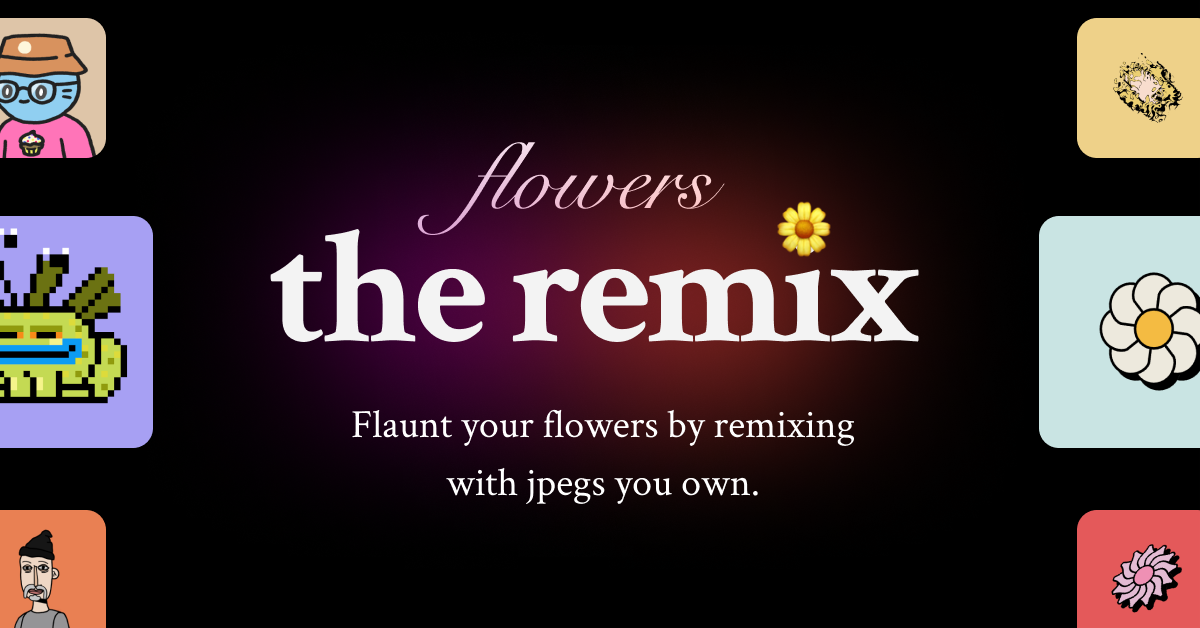
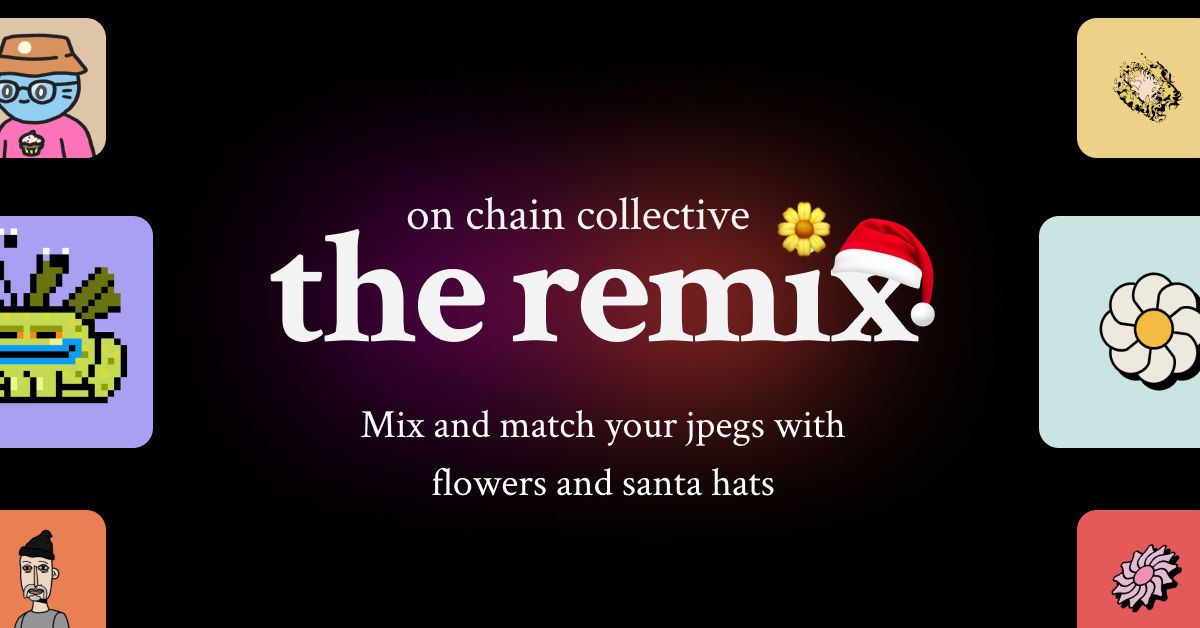
added santa hats

diff --git a/pages/index.js b/pages/index.js
@@ -188,10 +188,25 @@ function Home() {
   // Method to show only flower nfts
   function refreshNfts() {
     console.log('refreshing nfts');
+    setLoading(true);
     setBgImage(false);
     setJpegRenders(null);
     // setNftImages([], false);
-    setNftImages(jpegFlwrs, false);
+    let santaHat = [
+      {image_url: 'https://res.cloudinary.com/ds24tivvl/image/upload/v1640094508/Santa-hat/santahat1.png'}, 
+      {image_url: 'https://res.cloudinary.com/ds24tivvl/image/upload/v1640094508/Santa-hat/santahat2.png'}, 
+      {image_url: 'https://res.cloudinary.com/ds24tivvl/image/upload/v1640094508/Santa-hat/santahat3.png'}, 
+      {image_url: 'https://res.cloudinary.com/ds24tivvl/image/upload/v1640094508/Santa-hat/santahat4.png'}, 
+      {image_url: 'https://res.cloudinary.com/ds24tivvl/image/upload/v1640094508/Santa-hat/santahat5.png'}, 
+      {image_url: 'https://res.cloudinary.com/ds24tivvl/image/upload/v1640089027/Santa-hat/santahat6.png'}, 
+      {image_url: 'https://res.cloudinary.com/ds24tivvl/image/upload/v1640089027/Santa-hat/santahat7.png'}, 
+      {image_url: 'https://res.cloudinary.com/ds24tivvl/image/upload/v1640089027/Santa-hat/santahat8.png'}, 
+      // {image_url: 'https://res.cloudinary.com/ds24tivvl/image/upload/v1640089027/Santa-hat/santahat9.svg'}, 
+      {image_url: 'https://res.cloudinary.com/ds24tivvl/image/upload/v1640089027/Santa-hat/santahat10.png'}];
+    let flwrsWithSantaHat = santaHat.concat(jpegFlwrs);
+    console.log(flwrsWithSantaHat);
+    setNftImages(flwrsWithSantaHat, false);
+    setLoading(false);
   }
 
   // Method to reset to first step
@@ -280,6 +295,14 @@ function Home() {
               canvas.add(img3);
               canvas.renderAll();
             },{ crossOrigin: 'Anonymous' });
+          } else {
+            let url = URL.createObjectURL(file);
+            fabric.Image.fromURL(url, function(img) {
+              let img3 = img.set({left: 100,top: 100})
+              img3.scaleToWidth(300);
+              canvas.add(img3);
+              canvas.renderAll();
+            }, { crossOrigin: 'Anonymous' });
           }
         };
       }
@@ -325,7 +348,7 @@ function Home() {
                 }}
             /> */}
         </Head>
-      
+        
         <div className="flex items-center flex-col max-w-5xl mx-auto text-center">
           <header className="text-5xl md:text-6xl font-snell flex items-center justify-center mt-6">
             <img src="/remix/logo.png" className="w-5/6 sm:w-2/6"/>
@@ -334,7 +357,7 @@ function Home() {
            {!active &&
               <div className="flex flex-col max-w-xl mx-auto">
                 <p className="text-center max-w-xl mx-auto text-2xl text-left  md:p-4 p-6">
-                  Flaunt your flowers by remixing with jpegs you own. Connect your wallet to get started
+                  Make merry by remixing with jpegs you own. <br/> Connect your wallet to get started
                 </p>
                 <div className="flex align-center flex-col max-w-4xl mx-auto text-xl text-left mt-6 pb-4">
                     <ConnectButtons setWorking={setWorking} activate={activate} />
@@ -357,7 +380,7 @@ function Home() {
                     <div className={bgImage ? "cursor-not-allowed back-button" : "ghost-button back-button"}
                       onClick={() => goToBaseStep()}>{!bgImage  && <span><span className="arrow-left"/> back</span>}</div>
                     <p className="text-center max-w-xl mx-auto text-md sm:text-2xl text-left  md:p-4 p-6">
-                      {bgImage ? "Choose your base jpeg" : "Now add all the flowers you want to your pfp"}
+                      {bgImage ? "Choose your base jpeg" : "Now add flowers you own or santa hats to your pfp"}
                     </p>
                     {bgImage ?
                       <button className={bgImageSelected ? "button" : "ghost-button"}
@@ -417,6 +440,10 @@ function Home() {
         }
         <div className="flex align-center flex-col max-w-2xl mx-auto text-center mt-8 mb-8 p-4">
           <div className="text-md ">
+            <a href="https://occ.xyz/" target="_blank" className="hover:underline">
+              occ
+            </a>
+            {" "}&bull;{" "}
             <a href="https://occ.xyz/flowers" target="_blank" className="hover:underline">
               flowers
             </a>
@@ -430,6 +457,7 @@ function Home() {
             </a>
           </div>
         </div>
+        {/* <Snowfall snowflakeCount={20}/> */}
     </main>
   );
 }
